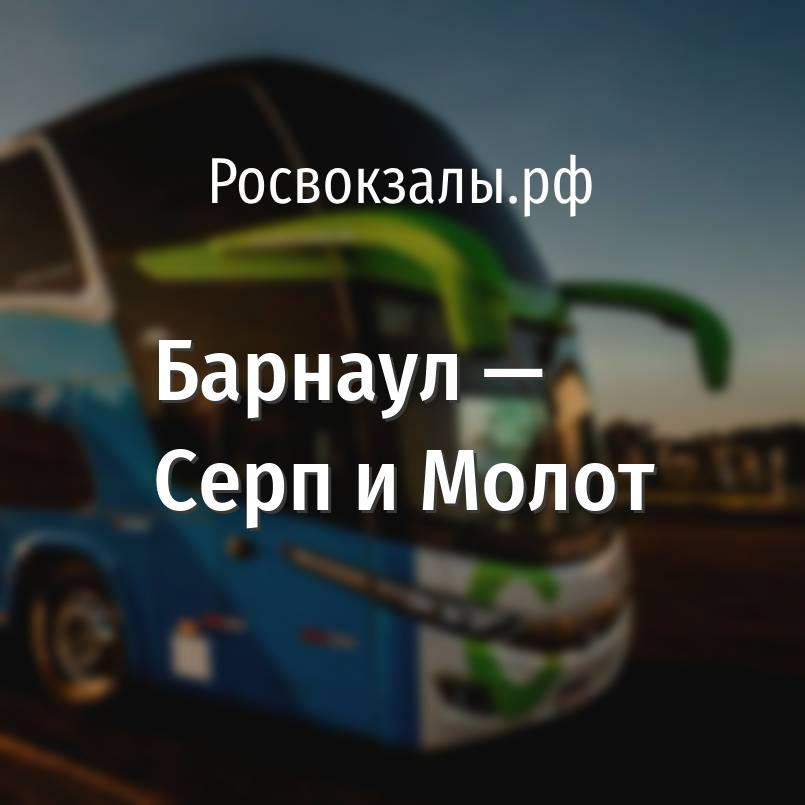
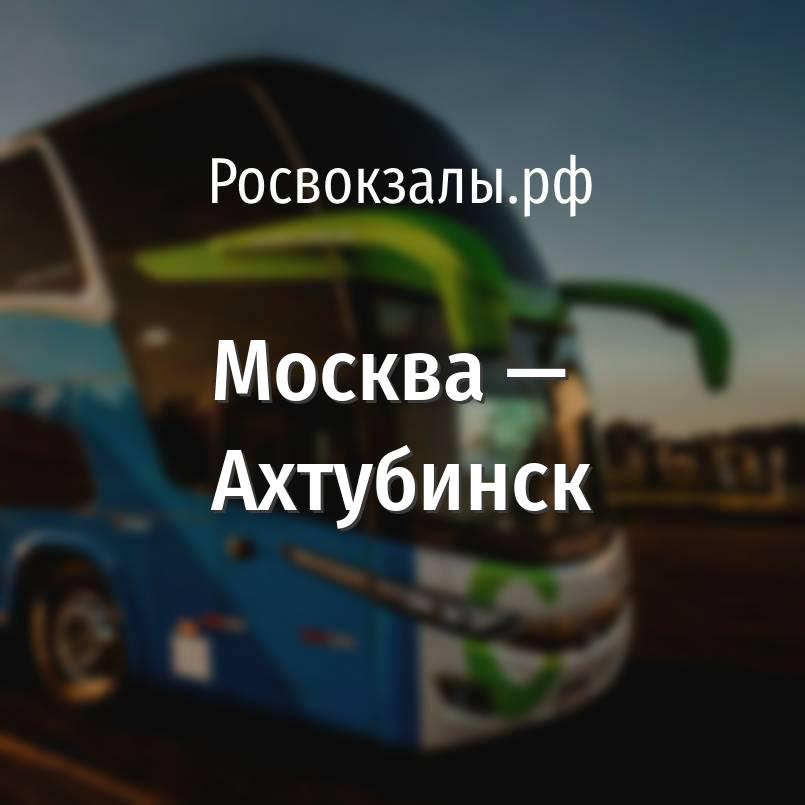
c305

Changed region(s): [[0.1863, 0.559, 0.8385, 0.6832], [0.1863, 0.4037, 0.6211, 0.528], [0.6832, 0.4348, 0.7143, 0.4658]]

diff --git a/app/Services/VkMarketService.php b/app/Services/VkMarketService.php
@@ -20,7 +20,7 @@ class VkMarketService
     // name
     // slug
     // price
-    public static function marketAdd($dispatchKladr, $arrivalKladr, $price){
+    public static function marketAdd($dispatchKladr, $arrivalKladr){
         GraphicService::generateImage($dispatchKladr->name, $arrivalKladr->name);
 
         $response =  Http::get(env('VK_URL').'/market.getProductPhotoUploadServer?v=5.131&group_id='
@@ -64,7 +64,6 @@ class VkMarketService
         &name=Автобус '.$dispatchKladr->name.' — '.$arrivalKladr->name.'
         &description=Автобус '.$dispatchKladr->name.' — '.$arrivalKladr->name.': расписание, отправление и прибытие по местному времени, цена билетов, маршрут.
         &main_photo_id='.$response->response->photo_id.'
-        &price='.$price.'
         &url=https://xn--80adplhnbnk0i.xn--p1ai/автобус/'.$dispatchKladr->slug.'/'.$arrivalKladr->slug.'?utm_source=vk&utm_medium=market
         &access_token='.env('VK_TOKEN'))->object();
         sleep(1);
@@ -87,12 +86,19 @@ class VkMarketService
       $kladrsCouples = KladrsCouple::with('dispatchKladr', 'arrivalKladr')->where([['racesExistence', '=', null]])->take(10)->get();
       // $kladrsCouples = KladrsCouple::with('dispatchKladr', 'arrivalKladr')->where([['dispatch_kladr_id', '=', 169902], ['arrival_kladr_id', '=', 206690]])->get();
       // dd($kladrsCouples);
-      $date = date("Y-m-d");
-      $newCouples = [];
-      $newRaces = [];
+      // $date = date("Y-m-d");
+      // $newCouples = [];
+      // $newRaces = [];
       foreach($kladrsCouples as $couple){
         $dispatchKladr = $couple->dispatchKladr;
         $arrivalKladr = $couple->arrivalKladr;
+
+        if($dispatchKladr && $arrivalKladr){
+          // $couple->racesExistence = true;
+          $couple->market_id = self::marketAdd($dispatchKladr, $arrivalKladr);
+          $couple->save();
+        }
+
         $dispatchPoint = $dispatchKladr->dispatchPoints->where('name', $dispatchKladr->name)->first();
         $dispatchPoints = $dispatchPoint ? [$dispatchPoint] : $dispatchKladr->dispatchPoints;
 
@@ -110,63 +116,65 @@ class VkMarketService
         // $newCouples[$key] = [$dispatchPoints, $arrivalPoints];
         
         
-        $races = [];
-        for($i = 1; $i <= 7; $i++){
-          $datetime = new DateTime($date);
-          $datetime->modify('+'.$i.' day');
-          $newDate = $datetime->format('Y-m-d');
-          foreach($dispatchPoints as $dispatchPoint){
-            foreach($arrivalPoints as $arrivalPoint){
-              Log::info('first request '.$key.' '.env('AVTO_SERVICE_URL').'/races/'.$dispatchPoint->id.'/'.$arrivalPoint->arrival_point_id.'/'.$newDate);
-              try{
-                $races = Http::withHeaders([
-                  'Authorization' => env('AVTO_SERVICE_KEY'),
-                ])->get(env('AVTO_SERVICE_URL').'/races/'.$dispatchPoint->id.'/'.$arrivalPoint->arrival_point_id.'/'.$newDate)->object();
-              }
-              catch(Exception $e){
-                $races = [];
-              }
+        // $races = [];
+        // for($i = 1; $i <= 7; $i++){
+        //   $datetime = new DateTime($date);
+        //   $datetime->modify('+'.$i.' day');
+        //   $newDate = $datetime->format('Y-m-d');
+        //   foreach($dispatchPoints as $dispatchPoint){
+        //     foreach($arrivalPoints as $arrivalPoint){
+        //       Log::info('first request '.$key.' '.env('AVTO_SERVICE_URL').'/races/'.$dispatchPoint->id.'/'.$arrivalPoint->arrival_point_id.'/'.$newDate);
+        //       try{
+        //         $races = Http::withHeaders([
+        //           'Authorization' => env('AVTO_SERVICE_KEY'),
+        //         ])->get(env('AVTO_SERVICE_URL').'/races/'.$dispatchPoint->id.'/'.$arrivalPoint->arrival_point_id.'/'.$newDate)->object();
+        //       }
+        //       catch(Exception $e){
+        //         $races = [];
+        //       }
               
-              sleep(2);
+        //       sleep(2);
 
-              if(gettype($races) == 'array' && count($races) > 0){
-                Log::info($key.' есть рейсы '.json_encode($races));
-                break;
-              }
-              elseif(gettype($races) == 'object'){
-                Log::info($key.' ошибка '.json_encode($races));
-                break;
-              }
-              Log::info($key.' '.json_encode($races));
-            }
-            if(gettype($races) == 'array' && count($races) > 0){
-              break;
-            }
-          }
+        //       if(gettype($races) == 'array' && count($races) > 0){
+        //         Log::info($key.' есть рейсы '.json_encode($races));
+        //         break;
+        //       }
+        //       elseif(gettype($races) == 'object'){
+        //         Log::info($key.' ошибка '.json_encode($races));
+        //         break;
+        //       }
+        //       Log::info($key.' '.json_encode($races));
+        //     }
+        //     if(gettype($races) == 'array' && count($races) > 0){
+        //       break;
+        //     }
+        //   }
 
-          if(gettype($races) == 'array' && count($races) > 0){
-            break;
-          }
-          elseif(gettype($races) == 'object'){
-            break;
-          }
-        }
-        if(gettype($races) == 'array' && count($races) > 0){
-          $minPrice = $races[0]->price;
-          foreach($races as $race){
-            if($race->price < $minPrice){
-              $minPrice = $race->price;
-            }
-          }
-          $couple->racesExistence = true;
-          $couple->market_id = self::marketAdd($dispatchKladr, $arrivalKladr, $minPrice);
-          $couple->save();
-          $newRaces[] = ['races' => $races, 'minPrice' => $minPrice];
-        }
-        else{
-          $couple->racesExistence = false;
-        }
-        $couple->save();
+        //   if(gettype($races) == 'array' && count($races) > 0){
+        //     break;
+        //   }
+        //   elseif(gettype($races) == 'object'){
+        //     break;
+        //   }
+        // }
+        // if(gettype($races) == 'array' && count($races) > 0){
+        //   $minPrice = $races[0]->price;
+        //   foreach($races as $race){
+        //     if($race->price < $minPrice){
+        //       $minPrice = $race->price;
+        //     }
+        //   }
+        //   // $couple->racesExistence = true;
+        //   // $couple->market_id = self::marketAdd($dispatchKladr, $arrivalKladr, $minPrice);
+        //   // $couple->save();
+        //   $newRaces[] = ['races' => $races, 'minPrice' => $minPrice];
+
+
+        // }
+        // else{
+        //   $couple->racesExistence = false;
+        // }
+        // $couple->save();
       }
       // return $newRaces;
       // dd($newCouples, $newRaces);

diff --git a/database/seeders/InsertVkMarketsSeeder.php b/database/seeders/InsertVkMarketsSeeder.php
@@ -2,6 +2,7 @@
 
 namespace Database\Seeders;
 
+use App\Models\Kladr;
 use Nette\Utils\DateTime;
 use App\Models\KladrsCouple;
 use Illuminate\Database\Seeder;
@@ -21,93 +22,39 @@ class InsertVkMarketsSeeder extends Seeder
      */
     public function run()
     {
-        $kladrsCouples = KladrsCouple::with('dispatchKladr', 'arrivalKladr')->where([['racesExistence', '=', null]])->get();
+        $kladrId = 221627;
+        $kladr = Kladr::find($kladrId);
+        if(!$kladr->album_id){
+          $title = 'Автовокзалы и автостанции '.$kladr->name;
+          $response = Http::get(env('VK_URL').'/market.addAlbum?owner_id='.-env('VK_GROUP_ID').'
+          &v=5.131
+          &group_id='
+          .env('VK_GROUP_ID').'&access_token='.env('VK_TOKEN').'&title='.$title)->object();
+          if(isset($response->response->market_album_id)){
+              $kladr->album_id = $response->response->market_album_id;
+              $kladr->save();
+          }          
+        }
+
+
+        $kladrsCouples = KladrsCouple::with('dispatchKladr', 'arrivalKladr')->where([['dispatch_kladr_id', '=', $kladrId]])->get();
+
         $output = new ConsoleOutput();
         $totalItems = $kladrsCouples->count(); // Замените на общее количество записей, которые вы собираетесь создать.
         $progressBar = new ProgressBar($output, $totalItems);
         $progressBar->start();
-        // $kladrsCouples = KladrsCouple::with('dispatchKladr', 'arrivalKladr')->where([['dispatch_kladr_id', '=', 169902], ['arrival_kladr_id', '=', 206690]])->get();
-        // dd($kladrsCouples);
-        $date = date("Y-m-d");
-        $newCouples = [];
-        $newRaces = [];
+
         foreach($kladrsCouples as $couple){
           $dispatchKladr = $couple->dispatchKladr;
           $arrivalKladr = $couple->arrivalKladr;
-          $dispatchPoint = $dispatchKladr->dispatchPoints->where('name', $dispatchKladr->name)->first();
-          $dispatchPoints = $dispatchPoint ? [$dispatchPoint] : $dispatchKladr->dispatchPoints;
   
-          $arrivalPoint = $arrivalKladr->arrivalPoints->where('name', $arrivalKladr->name)->first();
-          $arrivalPoints = $arrivalPoint ? [$arrivalPoint] : $arrivalKladr->arrivalPoints;
-          
-          
-          
-          // $races = [];
-          $key = '/автобус/'.$dispatchKladr->slug.'/'.$arrivalKladr->slug;
-          if($dispatchPoint && $arrivalPoint){
-          // $newCouples[$key] = [$dispatchPoints, $arrivalPoints];
-            $progressBar->advance();
-            continue;
+          if($dispatchKladr && $arrivalKladr){
+            $couple->market_id = VkMarketService::marketAdd($dispatchKladr, $arrivalKladr);
+            $couple->save();
           }
-          $newCouples[$key] = [$dispatchPoints, $arrivalPoints];
-          
-          
-          $races = [];
-          for($i = 1; $i <= 7; $i++){
-            $datetime = new DateTime($date);
-            $datetime->modify('+'.$i.' day');
-            $newDate = $datetime->format('Y-m-d');
-            foreach($dispatchPoints as $dispatchPoint){
-              foreach($arrivalPoints as $arrivalPoint){
-                Log::info('first request '.$key.' '.env('AVTO_SERVICE_URL').'/races/'.$dispatchPoint->id.'/'.$arrivalPoint->arrival_point_id.'/'.$newDate);
-                $races = Http::withHeaders([
-                  'Authorization' => env('AVTO_SERVICE_KEY'),
-                ])->get(env('AVTO_SERVICE_URL').'/races/'.$dispatchPoint->id.'/'.$arrivalPoint->arrival_point_id.'/'.$newDate)->object();
-                sleep(2);
-  
-                if(gettype($races) == 'array' && count($races) > 0){
-                  Log::info($key.' есть рейсы '.json_encode($races));
-                  break;
-                }
-                elseif(gettype($races) == 'object'){
-                  Log::info($key.' ошибка '.json_encode($races));
-                  break;
-                }
-                Log::info($key.' '.json_encode($races));
-              }
-              if(gettype($races) == 'array' && count($races) > 0){
-                break;
-              }
-            }
-  
-            if(gettype($races) == 'array' && count($races) > 0){
-              break;
-            }
-            elseif(gettype($races) == 'object'){
-              break;
-            }
-          }
-          if(gettype($races) == 'array' && count($races) > 0){
-            $minPrice = $races[0]->price;
-            foreach($races as $race){
-              if($race->price < $minPrice){
-                $minPrice = $race->price;
-              }
-            }
-            VkMarketService::marketAdd($dispatchKladr, $arrivalKladr, $minPrice);
-            $couple->racesExistence = true;
-            $newRaces[] = ['races' => $races, 'minPrice' => $minPrice];
-          }
-          else{
-            $couple->racesExistence = false;
-          }
-          $couple->save();
           $progressBar->advance();
         }
-
-        
-    // }
-    $progressBar->finish();
-    $output->writeln('Seeder completed!');
+        $progressBar->finish();
+        $output->writeln('Seeder completed!');
     }
 }

diff --git a/routes/web.php b/routes/web.php
@@ -153,8 +153,8 @@ Route::get('/spread', function (Request $request) {
 
   // dd(KladrsCouple::with('dispatchKladr', 'arrivalKladr')->find(1085));
   ini_set('max_execution_time', 20000);  
-  VkMarketService::allMarketsAdd();
-  dd('');
+  // VkMarketService::allMarketsAdd();
+  dd(KladrsCouple::with('dispatchKladr', 'arrivalKladr')->where([['dispatch_kladr_id', '=', 241805]])->get());
 
   $kladrsCouples = KladrsCouple::with('dispatchKladr', 'arrivalKladr')->where([['racesExistence', '=', null]])->take(10)->get();
   

diff --git a/database/seeders/InsertCouplesKladrsSeeder.php b/database/seeders/InsertCouplesKladrsSeeder.php
@@ -23,7 +23,7 @@ class InsertCouplesKladrsSeeder extends Seeder
     {
         // $kladrPages = KladrStationPage::where([['kladr_id', '=', 221627]])->get();
                     
-        // DB::table('kladrs_couples')->delete();
+        DB::table('kladrs_couples')->delete();
         $kladrPages = KladrStationPage::where([['kladr_id', '<>', null]])->get();
         $couplesData = [];
         foreach($kladrPages as $kladrPage){
